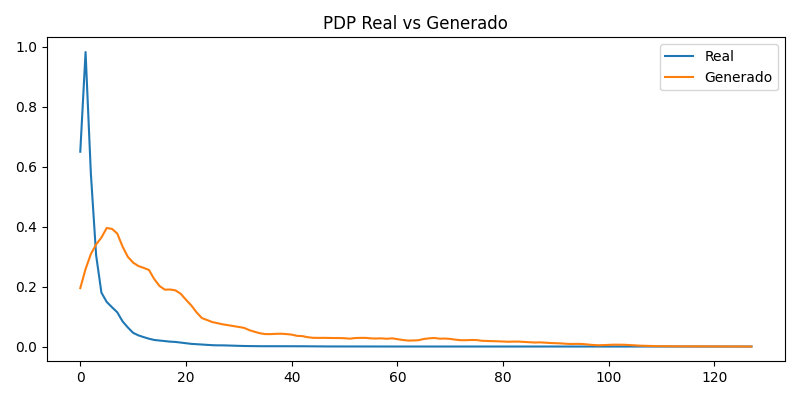
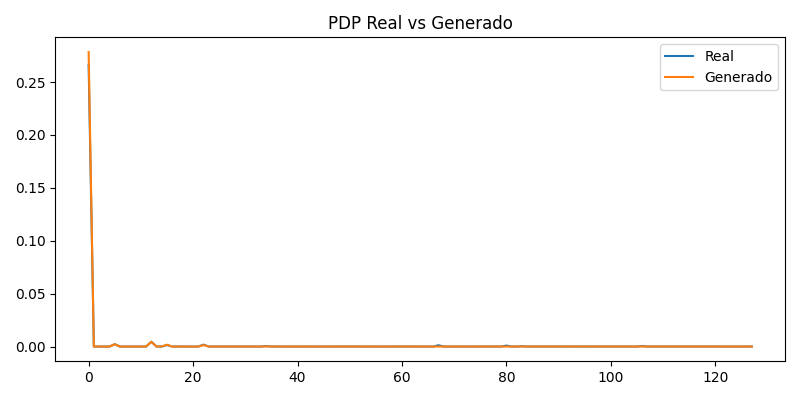
resultados ddpm datos sintenticos

diff --git a/train_Diffusion_Model.py b/train_Diffusion_Model.py
@@ -22,10 +22,10 @@ class ConvBlock(nn.Module):
         # kernel_size=3 y padding=1 preservan la longitud de la señal
         self.net = nn.Sequential(
             nn.Conv1d(in_c, out_c, 3, padding=1),
-            nn.BatchNorm1d(out_c), # estabiliza el entrenamiento
-            nn.SiLU(), # activación suave
+            nn.GroupNorm(num_groups=8, num_channels=out_c),
+            nn.SiLU(),
             nn.Conv1d(out_c, out_c, 3, padding=1),
-            nn.BatchNorm1d(out_c),
+            nn.GroupNorm(num_groups=8, num_channels=out_c),
             nn.SiLU()
         )
 
@@ -102,6 +102,9 @@ class UNet1D(nn.Module):
         x2 = self.down2(self.pool(x1)) # nivel 2
         # Bottleneck
         x_mid = self.mid(self.pool(x2))
+        # expandir embeddings temporal a la dimensión temporal de x_mid
+        t_emb = self.time_mlp(t).unsqueeze(-1)
+        t_emb = t_emb.expand(-1, -1, x_mid.size(2))
         # Inyección del tiempo (condicionamiento temporal)
         x_mid = x_mid + t_emb
         # Decoder
@@ -196,7 +199,7 @@ def train():
     device = 'cuda' if torch.cuda.is_available() else 'cpu'
     os.makedirs(args.save_dir, exist_ok=True)
     # cargar dataset
-    data = np.load('data/dataset_nist.npy')
+    data = np.load('data/datos_sinteticos/dataset_synthetic.npy')
     data = torch.from_numpy(data).float()
 
     loader = DataLoader(
